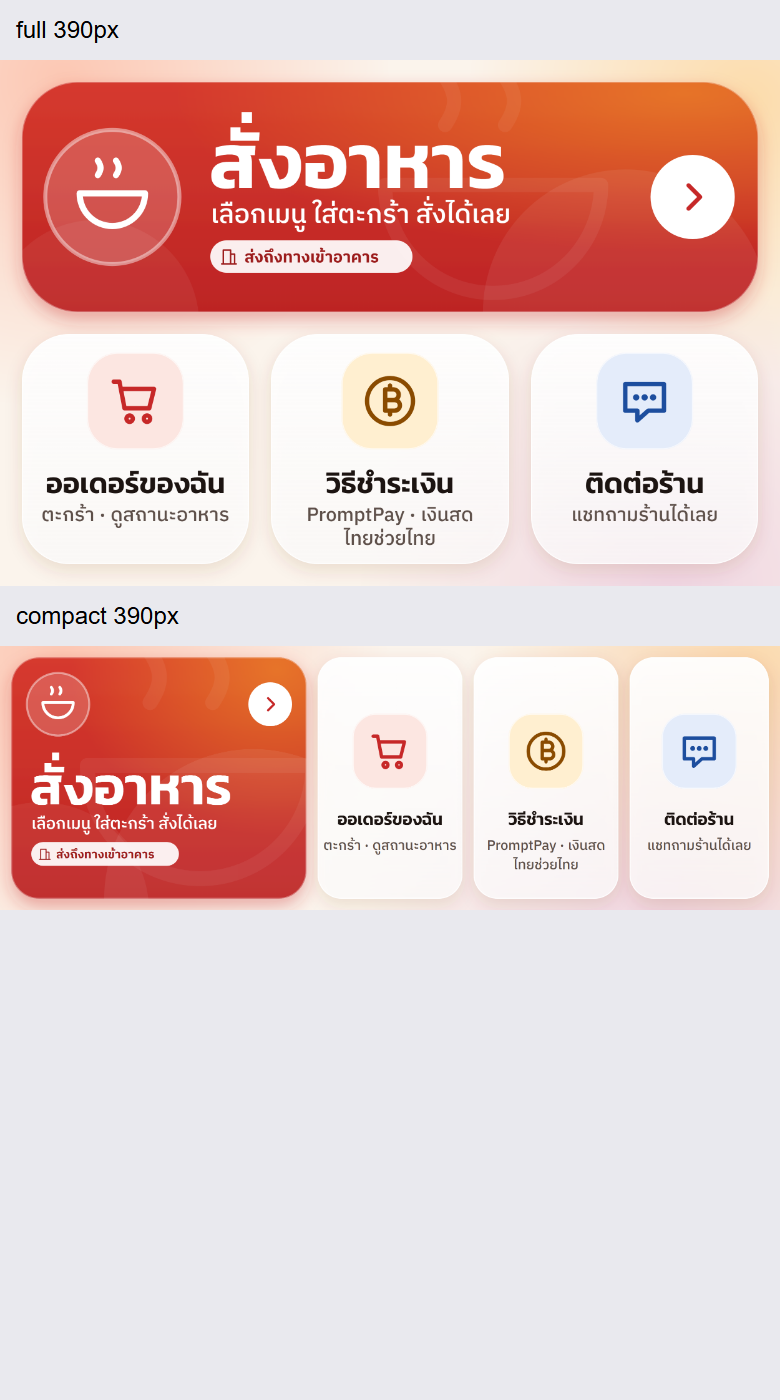
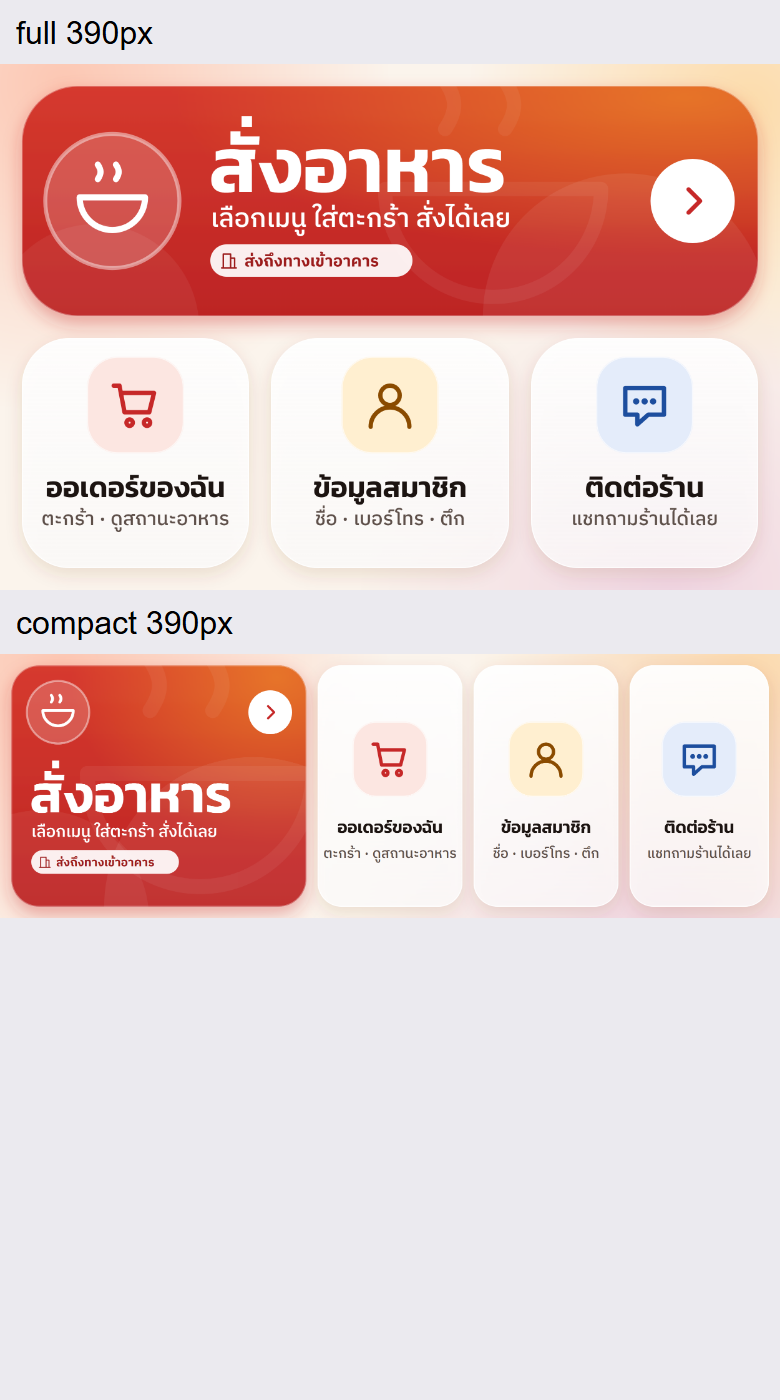
feat(design,line): rich menu middle tile opens the member page
Claude-Session: https://claude.ai/code/session_01UaBsLLC8xNDTdizNkszoS8

diff --git a/packages/line/src/richmenu.test.ts b/packages/line/src/richmenu.test.ts
@@ -48,7 +48,7 @@ describe('rich menu', () => {
       for (const area of menu.areas) {
         if (area.action.type === 'uri') {
           expect(area.action.uri).toMatch(
-            /^https:\/\/liff\.line\.me\/1234567890-abcdefgh\/(menu|orders)$/,
+            /^https:\/\/liff\.line\.me\/1234567890-abcdefgh\/(menu|orders|member)$/,
           );
         }
         if (area.action.type === 'postback') {

diff --git a/design/rich-menu/README.md b/design/rich-menu/README.md
@@ -6,8 +6,8 @@ Source of truth is `design/build/build-brand-art.mjs` (regenerates every file he
 
 | Variant | Image | Source | Tap areas |
 |---|---|---|---|
-| Full 2500x1686 (default) | `rich-menu-full.png` (926 KB) | `rich-menu-full.svg` | `rich-menu-full.json` |
-| Compact 2500x843 | `rich-menu-compact.png` (664 KB) | `rich-menu-compact.svg` | `rich-menu-compact.json` |
+| Full 2500x1686 (default) | `rich-menu-full.png` (914 KB) | `rich-menu-full.svg` | `rich-menu-full.json` |
+| Compact 2500x843 | `rich-menu-compact.png` (657 KB) | `rich-menu-compact.svg` | `rich-menu-compact.json` |
 
 LINE limits: PNG or JPEG, at most 1 MB, width 800-2500, aspect ratio at least 1.45. Both PNGs pass (the build script fails at 1 MB or more).
 
@@ -18,11 +18,11 @@ The JSON files are the Messaging API "create rich menu" object (`size`, `selecte
 |---|---|---|---|
 | สั่งอาหาร | 0,0,2500,843 | 0,0,1000,843 | `uri` `{{LIFF_BASE_URL}}/menu` |
 | ออเดอร์ของฉัน (cart + status) | 0,843,833,843 | 1000,0,500,843 | `uri` `{{LIFF_BASE_URL}}/orders` |
-| วิธีชำระเงิน | 833,843,834,843 | 1500,0,500,843 | `postback` `rm=pay-info`, displayText "วิธีชำระเงิน" |
+| ข้อมูลสมาชิก (ชื่อ · เบอร์โทร · ตึก) | 833,843,834,843 | 1500,0,500,843 | `uri` `{{LIFF_BASE_URL}}/member` |
 | ติดต่อร้าน | 1667,843,833,843 | 2000,0,500,843 | `postback` `rm=contact`, displayText "ติดต่อร้าน" |
 
-- `{{LIFF_BASE_URL}}` is the only placeholder: the MINI App / LIFF URL (`https://liff.line.me/<id>`). Paths `/menu` and `/orders` are proposals for `apps/liff-web` to match.
-- The two postbacks need webhook handlers: `rm=pay-info` replies (free) with the three methods; `rm=contact` alerts staff and replies "ร้านได้รับแล้ว". The payment reply lists ไทยช่วยไทย as an option only. **No ถุงเงิน QR is ever sent in LINE.**
+- `{{LIFF_BASE_URL}}` is the only placeholder: the MINI App / LIFF URL (`https://liff.line.me/<id>`). Paths `/menu`, `/orders` and `/member` (the member page) are proposals for `apps/liff-web` to match.
+- The one postback, `rm=contact`, alerts staff and replies "ร้านได้รับแล้ว". The old `rm=pay-info` handler stays in the webhook for menus already uploaded (it replies with the three methods; ไทยช่วยไทย is listed as an option only). **No ถุงเงิน QR is ever sent in LINE.**
 - Delivery wording on the art is "ส่งถึงทางเข้าอาคาร" (entrance only; no pickup or dine-in).
 - Areas tile the whole image with no gaps or overlaps. `chatBarText` is "สั่งอาหาร" (LINE allows 14 characters).
 
